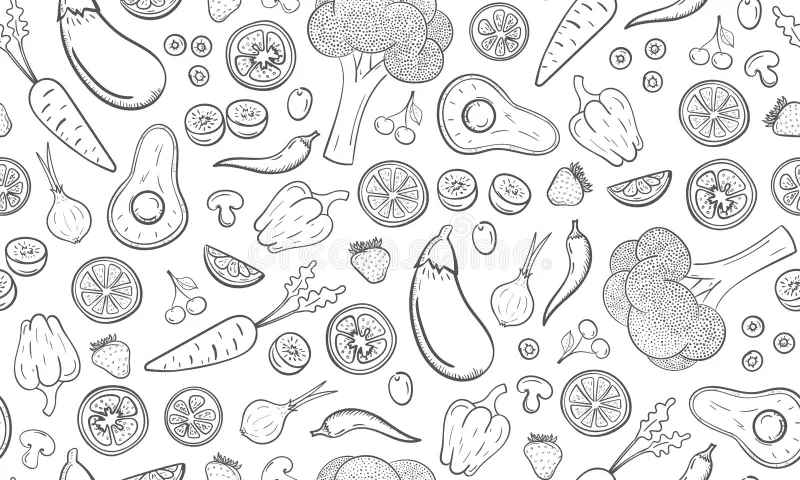
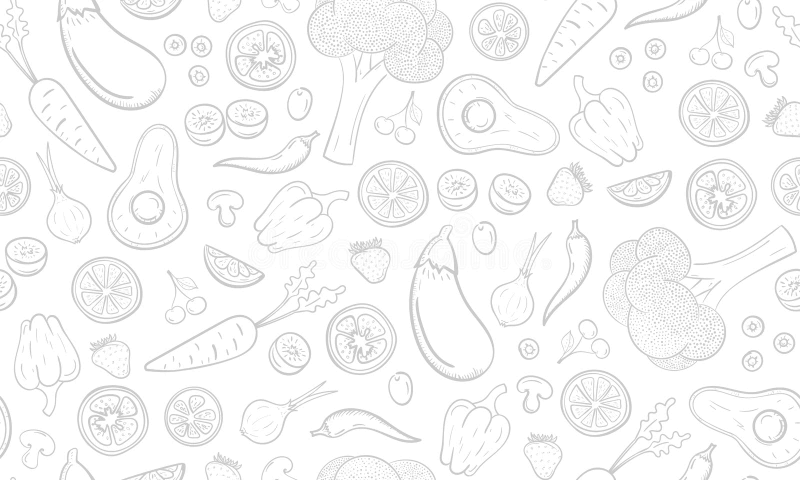
fondo modificado

Changed region(s): [[0.0, 0.0, 1.0, 1.0], [0.6875, 0.1562, 0.7812, 0.3125], [0.5938, 0.75, 0.625, 0.7812]]

diff --git a/app/globals.css b/app/globals.css
@@ -178,10 +178,10 @@ body {
 
 .menu {
   font-family: 'Merienda';
-  background-image:url('/public/FondoMenu.png');
-  background-size: cover;
-  background-repeat: no-repeat;
-  background-position: center;
+  background-image: url('../public/FondoMenu.png');
+  background-size:contain;
+  background-repeat: repeat;
+  background-position:0%;
   color: #09090b;
 }
 
